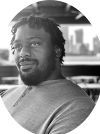
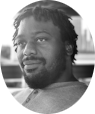
flip card on hover and adjustments to pictures

diff --git a/style.css b/style.css
@@ -3,23 +3,24 @@
     margin: 0;
     padding: 0;
     box-sizing: border-box;
+    font-family: chewy, sans-serif;
 }
 
 body {
     background: turquoise;
     position: relative;
-<<<<<<< HEAD
     background-image: url(clouds.jpeg);
+    width: 100%;
+    height: 100vh;
+    
     
 
-=======
->>>>>>> 72d47346ac43aed7ce5735363279bec32844d47a
 }
 
 h1 {
     font-family: chewy, sans-serif;
     font-size: 75px;
-    color: darkslategray;
+    color: black;
     text-align: center;
     margin: 20px;
 }
@@ -29,11 +30,6 @@ h1 {
     width: 80px;
     border-radius: 50%;
     background-color: black;
-    /* position: relative; 
-    -webkit-animation-name: example;  
-    -webkit-animation-duration: 1s;  
-    animation-name: example;
-    animation-duration: 1s;   */
     -webkit-animation: slide-in-top 0.5s cubic-bezier(0.250, 0.460, 0.450, 0.940) both;
     animation: slide-in-top 0.5s cubic-bezier(0.250, 0.460, 0.450, 0.940) both;
 }
@@ -43,11 +39,6 @@ h1 {
     width: 80px;
     border-radius: 50%;
     background: red;
-    /* position: relative;
-    -webkit-animation-name: example; 
-    -webkit-animation-duration: 1s; 
-    animation-name: example;
-    animation-duration: 1s; */
     -webkit-animation: slide-in-top 0.5s cubic-bezier(0.250, 0.460, 0.450, 0.940) both;
     animation: slide-in-top 0.5s cubic-bezier(0.250, 0.460, 0.450, 0.940) both;
 }
@@ -58,31 +49,10 @@ h1 {
     width: 580px;
     margin: 0 auto;
     border: 2px solid black;
-    /*display: grid;
-    grid-template-columns: repeat(7, 100px);
-    grid-template-rows: repeat(6, 100px);
-    grid-column-gap: 1px;
-    grid-row-gap: 1px;
-    justify-items: stretch;*/
+
+    
 }
 
-@keyframes blink {
-    0% {
-        color: red;
-    }
-    100% {
-        color: black;
-    }
-}
-
-@-webkit-keyframes blink {
-    0% {
-        color: red;
-    }
-    100% {
-        color: black;
-    }
-}
 
 .column {
     background-color: royalblue;
@@ -104,28 +74,22 @@ h1 {
     width: 100px;
     background-color: rgb(255, 187, 0);
     color: black;
-    font-family: Arial, Helvetica, sans-serif;
     font-size: 15px;
     font-weight: bolder;
     position: absolute;
-    top: 500px;
+    top: 470px;
     left: 85px;
     border-radius: 40%;
     border: 2px dashed black;
 }
-/*.instructions {
-    position: absolute;
-    height: 200px;
-    width: 75px;
-    border: 1px solid black;
-    font-family: chewy, sans-serif;
-    text-align: center;*/
+.button:active {
+    outline: none;
+    border: none;
+
+}
 
 
-/*@keyframes moveDisc {
-0% {margin-top: -1000px; }
-100% {margin-top: 0px;}
-}*/
+
 /* ----------------------------------------------
  * Generated by Animista on 2019-12-18 10:39:57
  * Licensed under FreeBSD License.
@@ -167,10 +131,10 @@ h1 {
   }
   ul {
       position: absolute;
-      top: 100px;
+      top: 70px;
       left: 20px;
       border: 4px dotted black;
-      height: 350px;
+      height: 370px;
       width: 250px;
       padding: 5px;
       font-weight: bolder;
@@ -179,24 +143,61 @@ h1 {
       background: rgb(238, 236, 236);
       list-style: none;
   }
-  .developers {
+  
+  .flip-card {
+      background-color: transparent; 
       position: absolute;
       top: 200px;
       right: 20px;
-      border: 4px dotted black;
       height: 400px;
       width: 250px;
-      padding: 5px;
-      font-size: 20px;
-      text-align: center;
-      font-weight: bolder;
-      background-color: rgb(238, 236, 236); 
-        
+      cursor: pointer;
+      perspective: 1000px;
+  }
+  .flip-card-inner {
+    position: relative;
+    transition: transform 0.8s ease-in-out; 
+    transform-style: preserve-3d; 
+    width: 100%;
+    height: 100%;
+    
+}
+
+.flip-card-inner:hover {
+    transform: rotateY(180deg);
+}
+  .flip-card-front, .flip-card-back {
+      position: absolute;
+      width: 100%;
+      height: 100%;
+      backface-visibility: hidden;
+  } 
+  .flip-card-front  {
+    border: 4px dotted black;
+    padding: 5px;
+    font-size: 20px;
+    text-align: center;
+    font-weight: bolder;
+    background-color: rgb(238, 236, 236);
+    transition: transform 0.8s ease-in-out;
+    
+    
+}
+     .flip-card-back  {
+        border: 4px dotted black;
+        padding: 5px;
+        font-size: 20px;
+        text-align: center;
+        font-weight: bolder;
+        background-color: rgb(238, 236, 236);
+        transform: rotateY(180deg);
+          
   }
   #qp {
       position: absolute;
       top: 30px;
       left: 10px;
+      margin-top: 10px;
   }
   #jp {
       position: absolute;
@@ -208,6 +209,22 @@ h1 {
       top: 250px;
       left: 10px;
   }
+  p.qpb {
+      position: absolute;
+      top: 40px;
+      left: 20px;
+  }
+  p.jpb {
+      position: absolute;
+      top: 150px;
+      right: 20px;
+  }
+  p.jmb {
+      position: absolute;
+      bottom: 50px;
+      left: 20px;
+  }
+  
 
 
   

diff --git a/index.html b/index.html
@@ -24,11 +24,23 @@
           <li>Four in a row wins, vertical, horizontal, diagonal</li><br />
         </ul>
       </p>
-      <div class="developers">Meet the Developers
+    <div class="flip-card">
+      <div class="flip-card-inner">
+        <div class="flip-card-front">
+        <h3>Meet the Developers</h3>
         <img id="qp"src="quinton.png" alt="Quinton">
         <img id="jp" src="joseph.png" alt="Joseph">
-        <img id="jm"src="joanna.png" alt="Jo Anna">
+        <img id="jm"src="joanna2.png" alt="Jo Anna">
+        </div>
+        <div class="flip-card-back">
+          <h3>Bios</h3>
+          <p class="qpb">Quinton Price, Project Lead, <br>JavaScript Ninja</p>
+          <p class="jpb">Joseph Padgett, <br>JavaScript Ninja</p>
+          <p class="jmb">Jo Anna Mollman, <br>UI, CSS</p>
+        </div>
       </div>
+
+    </div>
         <!-- <div class='column' id='1'>
       <div class='cell' id='1'></div>
       <div class='cell' id='2'></div>
@@ -85,7 +97,7 @@
       <div class='cell' id='41'></div>
       <div class='cell' id='42'></div>
     </div> -->
-    </div>
+    </divc>
 
     <div class="game"></div>
     <button class="button">Reset Game</button>
